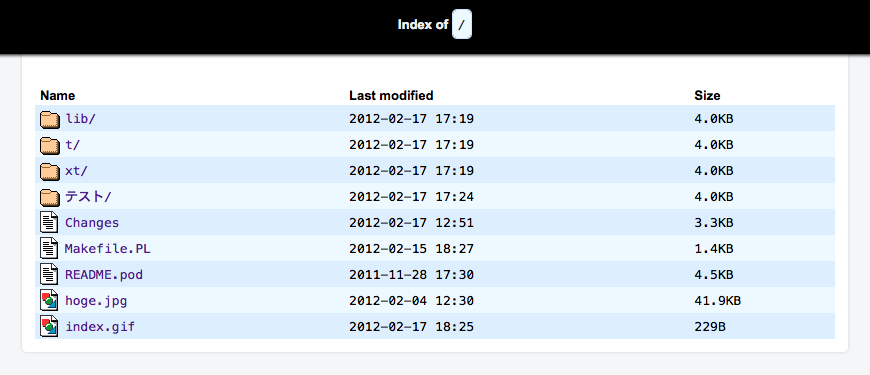
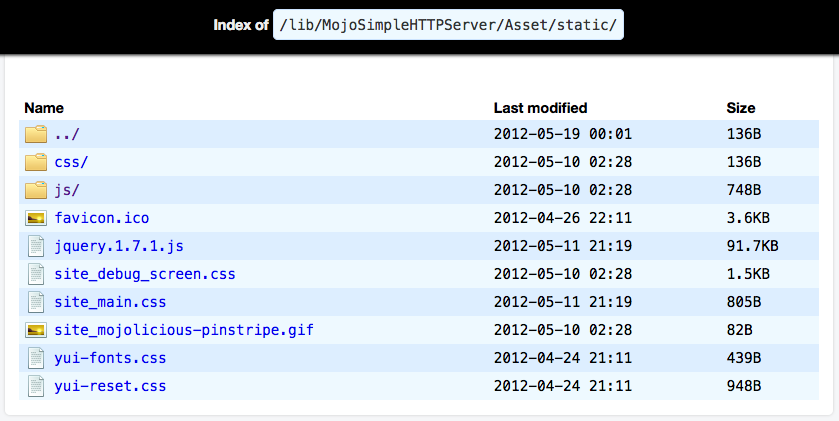
prettier auto index

diff --git a/lib/MojoSimpleHTTPServer/Plugin/AutoIndex/Asset/static/site_file_list.css b/lib/MojoSimpleHTTPServer/Plugin/AutoIndex/Asset/static/site_file_list.css
@@ -27,21 +27,24 @@ table {
 	}
 a {
 	display:block;
-	min-height:22px;
-	line-height:22px;
+	min-height:24px;
+	line-height:24px;
 	text-decoration:none;
 	background-repeat:no-repeat;
-	padding-left: 25px;
+	padding-left: 30px;
[1 lines of base64/hex data omitted]
 }
 	a.dir {
[2 lines of base64/hex data omitted]
 	}
 	a.text {
[2 lines of base64/hex data omitted]
 	}
 	a.image {
[2 lines of base64/hex data omitted]
 	}
-	a.application {
[1 lines of base64/hex data omitted]
+	a.audio,
+	a.video {
[1 lines of base64/hex data omitted]
 	}
+

diff --git a/readme.md b/readme.md
@@ -94,6 +94,11 @@ These options are available:
 [https://github.com/jamadam/MojoSimpleHTTPServer]
 [https://github.com/jamadam/MojoSimpleHTTPServer]:https://github.com/jamadam/MojoSimpleHTTPServer
 
+## CREDIT
+
+Icons by [Yusuke Kamiyamane].
+[Yusuke Kamiyamane]:http://p.yusukekamiyamane.com/
+
 ## COPYRIGHT AND LICENSE
 
 Copyright (c) 2012 [jamadam]
